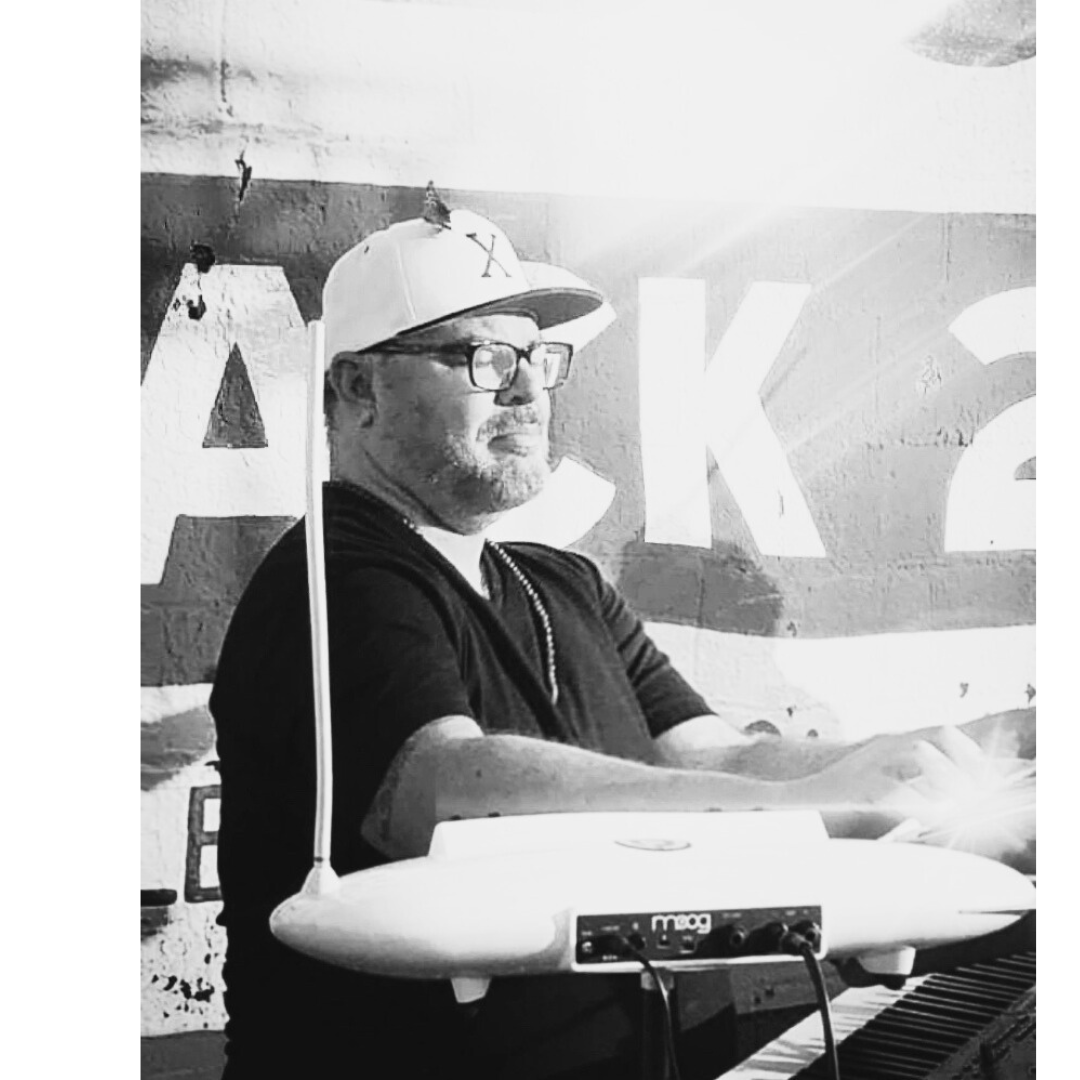
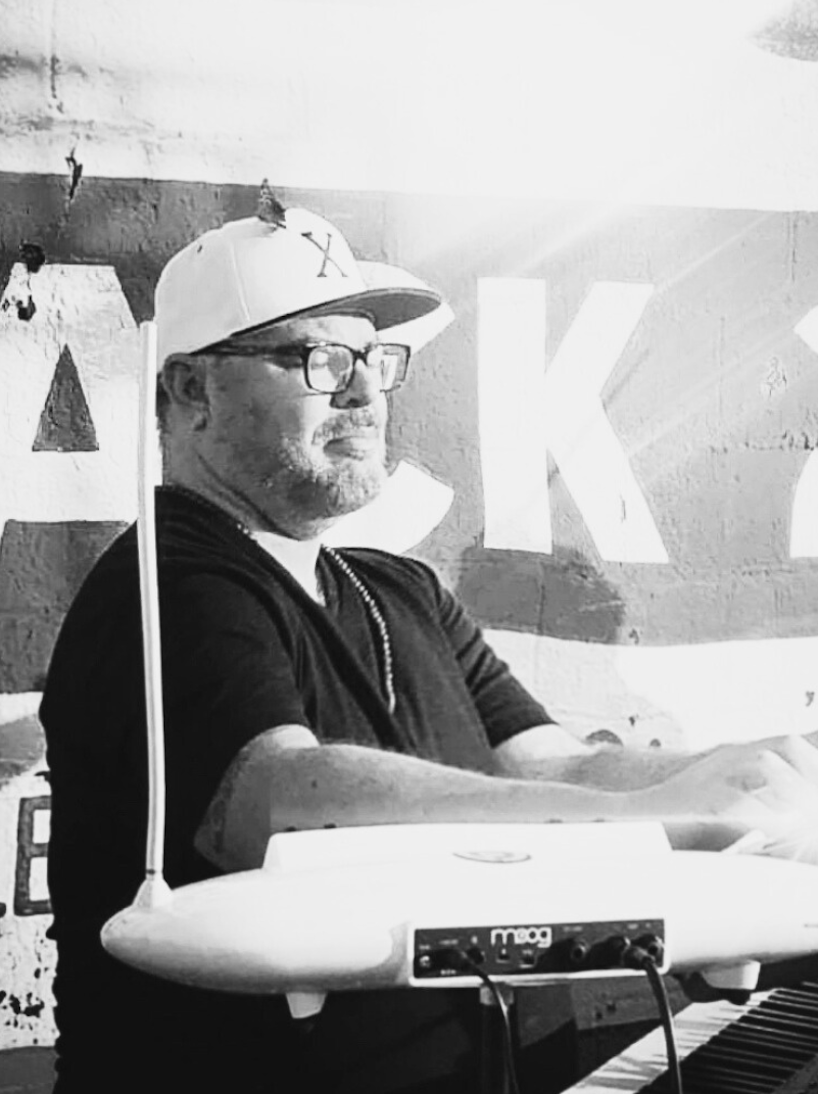
updated band member

diff --git a/src/components/BandMember/BandMember.jsx b/src/components/BandMember/BandMember.jsx
@@ -11,11 +11,11 @@ const BandMember = () => {
                     </article>
                 ))}
             </article>
-            <article className='hidden md:flex mb-10'>
+            <article className='hidden md:flex justify-center mb-10 mx-32'>
                 {bandMemberList.map((item, index) => index > 2 && (
-                    <article key={item.id} className='flex flex-col items-center'>
+                    <article key={item.id} className='flex flex-col justify-center items-center'>
                         <h2 key={item.name} className='member-name md:text-4xl lg:text-5xl'>{item.name}</h2>
-                        <img key={item.image} src={item.image} id='band-member' className='w-[50%] h-auto' />
+                        <img key={item.image} src={item.image} id='band-member' className='w-[65%] h-auto rounded-3xl' />
                     </article>
                 ))}
             </article>
